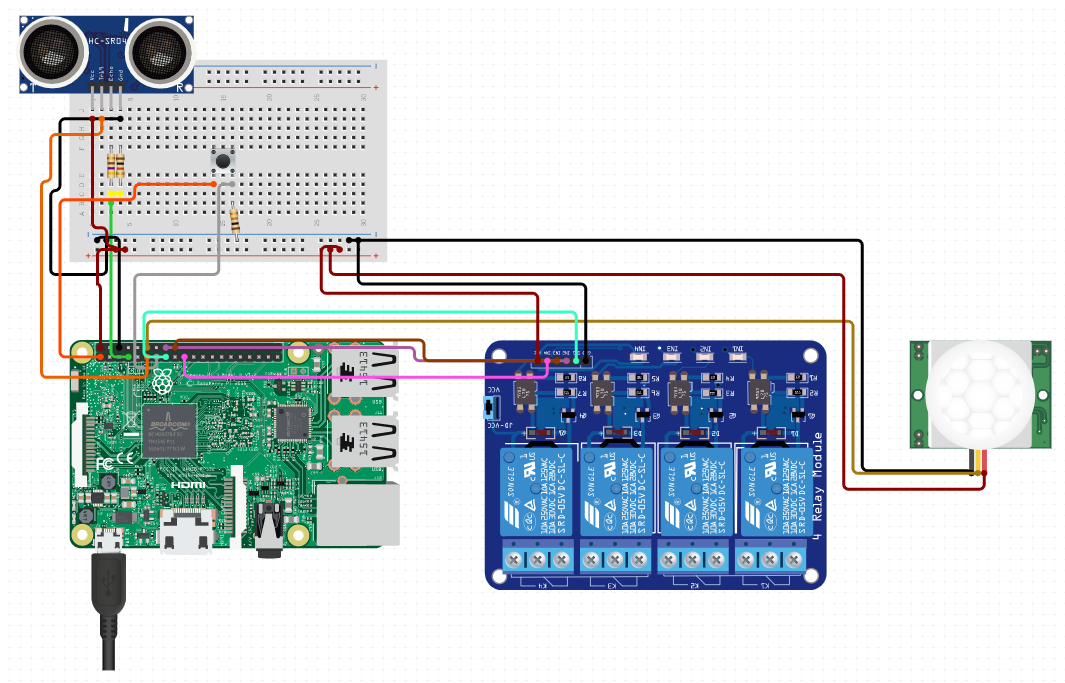
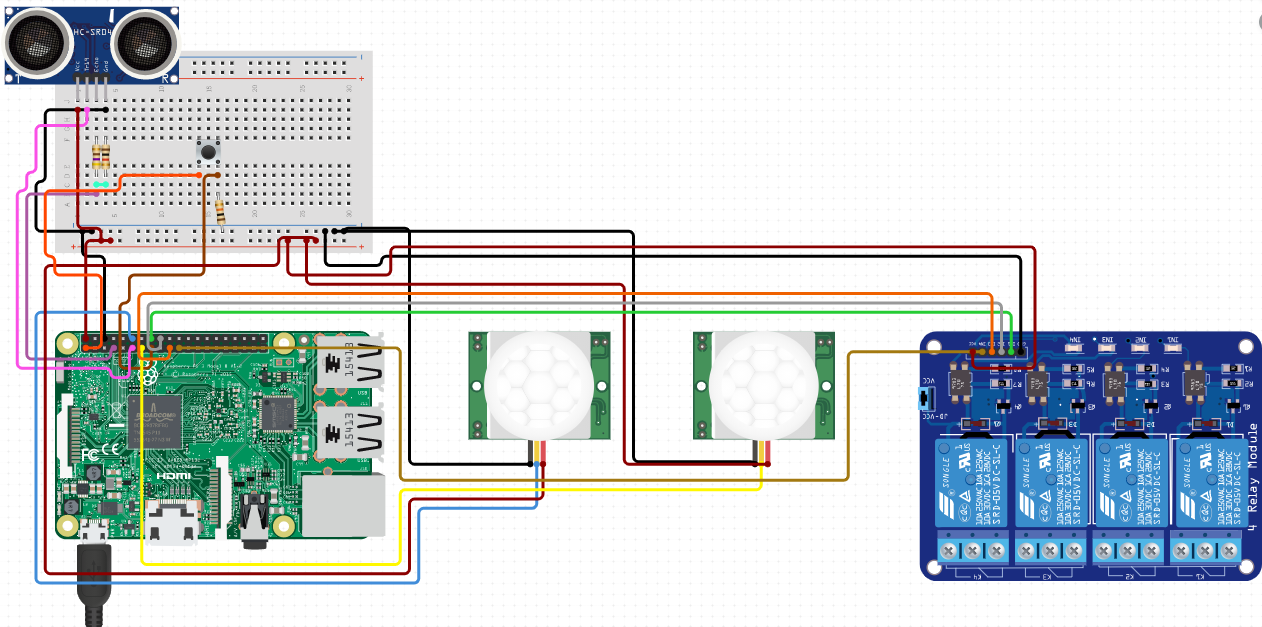
added image schematic.png and explained how to wire pins

diff --git a/light_controller.py b/light_controller.py
@@ -25,7 +25,7 @@ lights_dict = {
         "time_on": 0,
         "time_off": 0,
         "max_time_on": VARIABLES.max_time_on_lights_top,
-        "pin": 19,
+        "pin": VARIABLES.pin_light_top,
         "ctr_signal": 0,
         "occupancy_detected": True,
     },
@@ -35,7 +35,7 @@ lights_dict = {
         "time_on": 0,
         "time_off": 0,
         "max_time_on": VARIABLES.max_time_on_lights_desk,
-        "pin": 26,
+        "pin": VARIABLES.pin_light_desk,
         "ctr_signal": 0,
         "occupancy_detected": True,
     },
@@ -48,7 +48,7 @@ room_light = {
     "max_time_on": VARIABLES.max_time_on_lights_room,
     "hours_on": VARIABLES.hours_on,
     "days_on": VARIABLES.days_on,
-    "pin": 22,
+    "pin": VARIABLES.pin_light_room,
     "completed_hourly_cycle": 0,  # hour number when cycle completed
 }
 

diff --git a/VARIABLES.py b/VARIABLES.py
@@ -12,8 +12,11 @@ beacons_to_track = {
 pin_manual_switch = 2
 pin_pir_1 = 6
 pin_pir_2 = 21
-pir_ultrasonic_echo = 17
-pir_ultrasonic_trigger = 4
+pin_ultrasonic_echo = 17
+pin_ultrasonic_trigger = 4
+pin_light_desk = 26
+pin_light_room = 22
+pin_light_top = 19
 
 # minimum time that the light need to stay off, to prevent that the light fails
 min_time_off = 1 * 60

diff --git a/README.md b/README.md
@@ -16,9 +16,47 @@ In a nutshell the control logic works as follows:
 
 Only after occupancy is not detected for a predefined amount of time (see section below to change these values) which can be set differently for each sensor. Then the RPI turns on the lights based on the above mentioned control logic. Light can stay on only for a predefined amount of time after which they automatically turn off. Light will turn on again either at midnight (each day) or after that a person enter and then leaves the space. 
 
+## Project schematic
+
+![alt text](https://github.com/FedericoTartarini/rpi-uv-controller/tree/master/images/schematic.png)
+
+If you wire the sensors as shown in the image above please change the variables in the `VARIABLES.py` file as follows:
+
+### pins
+pin_manual_switch = 22
+pin_pir_1 = 27
+pin_pir_2 = 18
+pin_ultrasonic_echo = 4
+pin_ultrasonic_trigger = 17
+pin_light_desk = 10
+pin_light_room = 24
+pin_light_top = 23
+
+## Parts
+
+Below a list of all the parts needed and their estimated cost.
+
+| Command | Unit price | Quantity |
+| --- | --- | --- |
+| BreadBoard - Half Size | $4.5 | 1 |
+| BLE beacon | $20 | 1 |
+| Raspberry Pi 3 or 4 | $40 | 1 |
+| Relay Module 4-Ch | $2.69 | 1 |
+| PIR (motion) sensor | $9.95 | 2 |
+| USB micro-B Cable - 6 Foot | $2.98 | 1 |
+| Ultrasonic Sensor - HC-SR04 | $3.95 | 1 |
+| 470 Ohm Resistor | $0.1 | 1 |
+| 1K Ohm Resistor | $0.1 | 1 |
+| Mini Pushbutton Switch | $0.1 | 1 |
+| 10K Ohm Resistor | $0.1 | 1 |
+| Jumper Wires Pack - M/M | $1.95 | 1 |
+| Jumper Wires Pack - M/F | $1.95 | 1 |
+
 ## Parameters (variables) that can be changed
 
 You can change them by editing the file `VARIABLES.py`.
+
+Please also change the pin numbers in this file if you are connecting the sensors as shown in the schematic image.
 
 ### beacons_to_track
 
@@ -26,7 +64,7 @@ Is a dictionary of all the the Beacons that the RPI needs to track.
 
 **The ids of the beacons should be lowercase!**
 
-The keys are the beacon ids, while the values are the rssi threshold for that beacon. This treshold is used to turn on the top lights. Note that rssi values are always negative values, with decreasing values as the beacon moves away from the RPI.
+The keys are the beacon ids, while the values are the rssi threshold for that beacon. This threshold is used to turn on the top lights. Note that rssi values are always negative values, with decreasing values as the beacon moves away from the RPI.
 
 ### other variables
 
